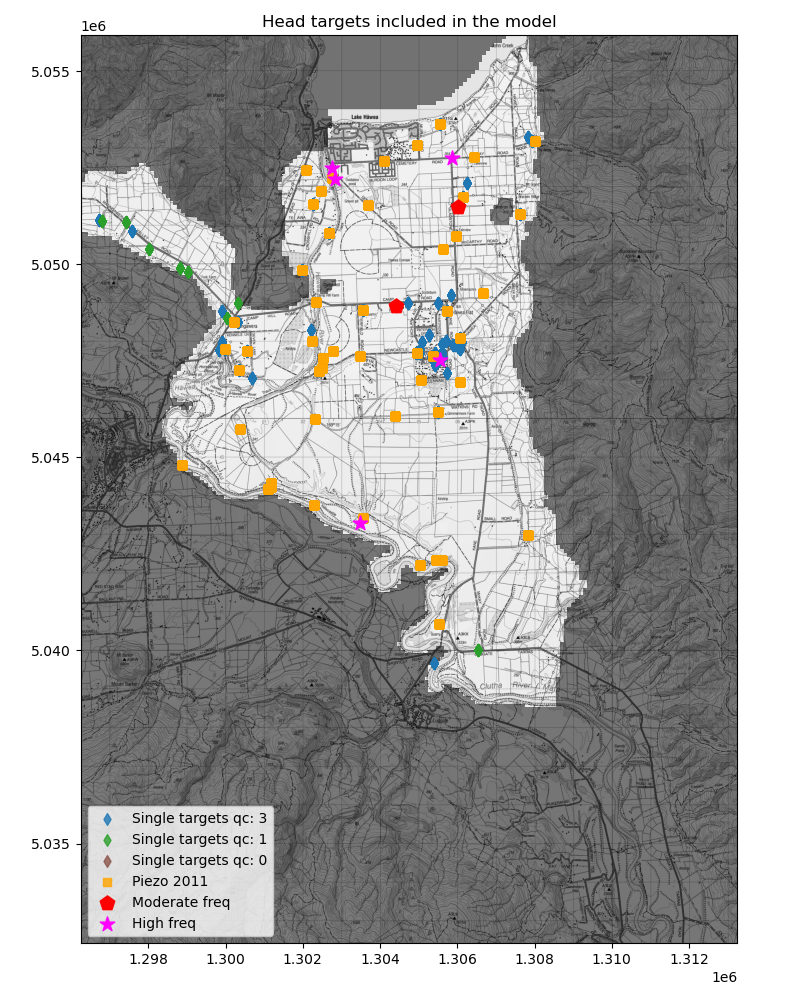
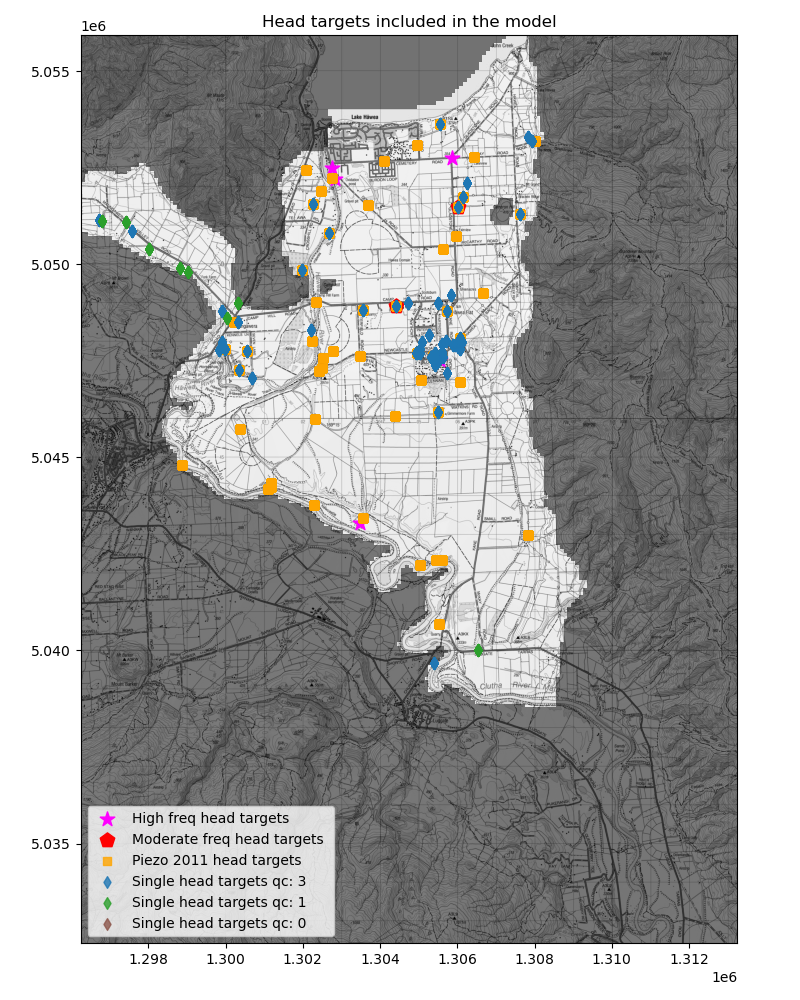
start target readme

diff --git a/writeup_support.py b/writeup_support.py
@@ -143,10 +143,9 @@ def geography():
     ax.legend(handles, labels, loc='lower left')
     # todo clutha/hawea river
 
-
     labels = [
-       "Camp Hill",
-       "Cameron Hill",
+        "Camp Hill",
+        "Cameron Hill",
         "Grandview Ridge",
         "John Stream",
         "Grandview Creek",
@@ -162,19 +161,20 @@ def geography():
         (1308166.6, 5046628.5),
     ]
     for label, (x, y) in zip(labels, xsys):
-        ax.annotate(label, xy=(x, y), xytext=(x, y-1500), fontsize=10, color='k', ha='center', va='center',
+        ax.annotate(label, xy=(x, y), xytext=(x, y - 1500), fontsize=10, color='k', ha='center', va='center',
                     bbox=dict(boxstyle='round', fc='w', ec='k', alpha=0.5),
                     arrowprops=dict(facecolor='white', shrink=0.05, width=2, headwidth=10, headlength=10))
     fig.tight_layout()
     fig.savefig(proj_root.joinpath('support_figures', 'model_2d_geography.png'))
     plt.show()
 
+
 def well_locations():
     from model_build.supporting_data_analysis import get_pumping_locs
     locs = get_pumping_locs()
     locs = smt.io.add_mxmy_to_df(locs)
-    fig,ax =smt.plot.plt_basemap(no_flow_layer=0)
-    for l,c in zip(range(3), ['r', 'b', 'm']):
+    fig, ax = smt.plot.plt_basemap(no_flow_layer=0)
+    for l, c in zip(range(3), ['r', 'b', 'm']):
         temp = locs[locs.k == l]
         ax.scatter(temp.mx, temp.my, color=c, label='Abstraction in Layer {}'.format(l))
     ax.legend(loc='lower left')
@@ -183,10 +183,11 @@ def well_locations():
     fig.savefig(proj_root.joinpath('support_figures', 'model_2d_well_locations.png'))
     plt.show()
 
+
 def large_hill_inflows():
     from model_build.supporting_data_analysis import get_river_flow_data
 
-    rflows = get_river_flow_data('2015-01-01', None,frequency='W')
+    rflows = get_river_flow_data('2015-01-01', None, frequency='W')
 
     fig, ax = plt.subplots(figsize=(8, 4))
     for nm, pn, c in zip(['gview', 'john'], ['Grandview Creek', 'John Creek'], ['r', 'b']):
@@ -199,6 +200,7 @@ def large_hill_inflows():
     fig.savefig(proj_root.joinpath('support_figures', 'model_2d_large_hill_inflows.png'))
     plt.show()
 
+
 def near_river():
     from model_build.supporting_data_analysis.get_pumping_data import get_pumping_locs
     all_locs = get_pumping_locs(force_near_river=True)
@@ -206,7 +208,7 @@ def near_river():
     fig, ax = smt.plot.plt_basemap(no_flow_layer=0)
     for t in [True, False]:
         ax.scatter(all_locs[all_locs.near_river == t].mx, all_locs[all_locs.near_river == t].my,
-                     color='r' if t else 'b', label='Near River' if t else 'Not Near River')
+                   color='r' if t else 'b', label='Near River' if t else 'Not Near River')
     ax.legend(loc='lower left')
     ax.set_title('Groundwater Abstraction Well Locations')
     fig.tight_layout()
@@ -214,11 +216,39 @@ def near_river():
     plt.show()
 
 
+def plot_all_targets():
+    from optimisation.pre_optimisation_overview import plot_head_targets, get_riv_target_locs, get_hawea_gain_loss_targets
+    rt = get_hawea_gain_loss_targets()
+    # river targets
+    riv_loc = get_riv_target_locs()
+    use_riv_targets = smt.get_model_zeros() * np.nan
+    base_names = {e: f'Hawea River Target: {int(e)}' for e in riv_loc.keys()}
+    for k, v in riv_loc.items():
+        use_riv_targets[v] = k
+
+    zone_colors = {k: c for c, k in zip(smt.plot.get_colors(riv_loc.keys()), riv_loc.keys())}
+
+    fig, ax = plot_head_targets(how='incl')
+    handles, labels = ax.get_legend_handles_labels()
+
+    fig, ax, handles1, labels1 = smt.plot.plt_discrete_matrix(use_riv_targets, ax=ax, colors=zone_colors,
+                                                            names=base_names,
+                                                            return_handles_labels=True)
+    handles.extend(handles1)
+    labels.extend(labels1)
+    ax.set_title('All model targets')
+    ax.legend(labels=labels, handles=handles, loc='lower left')
+    fig.tight_layout()
+    fig.savefig(proj_root.joinpath('support_figures', 'model_targets.png'))
+    plt.show()
+
+
 if __name__ == '__main__':
     # model_2d_structure_plots()
     # boundary_condition_figure()
-    #geography()
+    # geography()
     # well_locations()
-    #large_hill_inflows()
-    near_river()
+    # large_hill_inflows()
+    # near_river()
+    plot_all_targets()
     pass

diff --git a/targets_and_sensitive_sites/head_targets.py b/targets_and_sensitive_sites/head_targets.py
@@ -158,36 +158,38 @@ def plot_head_targets(how='all'):
 
 
     elif how == 'incl':
+        print('plotting head targets included in the model')
         fig, ax = smt.plot.plt_matrix(smt.get_model_zeros() * np.nan, color_bar=False,
                                       base_map=True, no_flow_layer=0)
 
         all_wells = get_all_wells()
         single_targets = get_single_head_targets()
         all_wells = all_wells.loc[all_wells.ibound > 0]
-        qcs = all_wells.loc[:, 'quality_code'].unique()
-        colors = get_colors(qcs)
-        for qc, c in zip(qcs, colors):
-            temp = single_targets.loc[single_targets.quality_code == qc]
-            ax.scatter(temp.nztmx, temp.nztmy, color=c, label=f'Single targets qc: {qc}', marker='d', alpha=alpha)
-
-        # add scott piezo locs
-        piezo = get_2011_piezo_survey(recalc=True)
-        ax.scatter(piezo.nztmx, piezo.nztmy, color='orange', marker='s', alpha=alpha, label='Piezo 2011')
+        qcs = list(reversed(sorted(all_wells.loc[:, 'quality_code'].unique())))
 
         marker_size = 120
-        # add ngmp wells
-        t = get_low_freq_head_targets(None, None)
-        wells = all_wells.loc[t.keys()]
-        ax.scatter(wells.nztmx, wells.nztmy, color='r', marker='p', label='Moderate freq', s=marker_size)
-
         # add high frequency
         t = get_high_freq_head_targets(None, None)
         wells = all_wells.loc[t.keys()]
-        ax.scatter(wells.nztmx, wells.nztmy, color='magenta', marker='*', label='High freq', s=marker_size)
+        ax.scatter(wells.nztmx, wells.nztmy, color='magenta', marker='*', label='High freq head targets', s=marker_size)
 
-        print('plotting head targets included in the model')
-        ax.legend(loc='lower left')
+        # add ngmp wells
+        t = get_low_freq_head_targets(None, None)
+        wells = all_wells.loc[t.keys()]
+        ax.scatter(wells.nztmx, wells.nztmy, color='r', marker='p', label='Moderate freq head targets ', s=marker_size)
+
+        # add scott piezo locs
+        piezo = get_2011_piezo_survey(recalc=True)
+        ax.scatter(piezo.nztmx, piezo.nztmy, color='orange', marker='s', alpha=alpha, label='Piezo 2011 head targets')
+
+
+        colors = get_colors(qcs)
+        for qc, c in zip(qcs, colors):
+            temp = single_targets.loc[single_targets.quality_code == qc]
+            ax.scatter(temp.nztmx, temp.nztmy, color=c, label=f'Single head targets qc: {qc}', marker='d', alpha=alpha)
+
         ax.set_title('Head targets included in the model')
+        ax.legend(loc='lower left')
 
     else:
         raise NotImplementedError

diff --git a/optimisation/pre_optimisation_overview.py b/optimisation/pre_optimisation_overview.py
@@ -748,6 +748,11 @@ def make_all_preopt(save):
 
 
 if __name__ == '__main__':
+    # one revision
+    fig, ax = plot_head_targets('incl')
+    fig.tight_layout()
+    fig.savefig(proj_root.joinpath('optimisation/pre_optimisation_plots_png/targets/spatial_head_targets.png'))
+
     base = proj_root.joinpath('optimisation')
     save = True
     for extension in ['.png']:

diff --git a/targets_and_sensitive_sites/README.rst b/targets_and_sensitive_sites/README.rst
@@ -1,6 +1,105 @@
+Hawea Transient groundwater model (Hawea Model) Targets and Sensitive sites
+################################################
+
+.. figure:: ../support_figures/model_targets.png
+   :height: 650 px
+   :align: center
+
+.. class:: centered
+
+   Figure: All Hawea Model targets
+
+:Author:  Matt Dumont
+:Date:  2021-11-02
+:Version:  1.0.0
+:Status:  Draft
+:KSL project: Z22031HAW_hawea-model
+:Purpose: This document describes the development of model targets and the identification of sensitive sites
+
+Index
+=====
+.. contents:: Table of Contents
+
+Managing targets outside of the optimisation period
+====================================================
+# todo
+
+Groundwater head targets
+========================
+.. figure:: ../optimisation/pre_optimisation_plots_png/targets/spatial_head_targets.png
+   :height: 650 px
+   :align: center
+
+.. class:: centered
+
+   Figure: Spatial distribution of groundwater head targets
+
+# todo
+High and moderate frequency targets
+----------------------
+# todo
+
+Targets from the 2011 Piezometric Survey
+------------------------------------------
+# todo
+Single targets
+-----------------
+# todo
 
 
+River gain and loss targets
+===========================
 
+.. figure:: ../optimisation/pre_optimisation_plots_png/targets/river_conductance.png
+   :height: 650 px
+   :align: center
+
+.. class:: centered
+
+   Figure: Spatial distribution of river gain/loss targets
+
+Measured data
+-------------
+Two sets of 4 concurrent river gaugings on the Hawea River were used to develop the river gain/loss targets. The first
+set of gaugings were taken on 2017-09-29 and the second set were taken in on 2018-02-07. These targets are inherently
+uncertain as the gauging error is typically >=10% of the river discharge and in braided river systems such as the Hawea
+River, the river discharge can vary significantly over short distances as water travels in and out of the
+river proximal and riverbed gravels. Nevertheless, the river gain/loss targets are the only measured constraint on the
+model and are therefore used in the optimisation.
+
+Expert Judgment
+---------------
+# todo
+
+Temporal distribution of targets
+================================
+The final temporal distribution of targets in the model is shown in the following figures. Recall that the targets
+which were measured outside of the optimisation period were assigned an indicative time during the optimisation
+period.
+
+.. figure:: ../optimisation/pre_optimisation_plots_png/targets/low_freq_temporal_targets.png
+   :height: 650 px
+   :align: center
+
+.. class:: centered
+
+   Figure: Temporal distribution of low frequency groundwater head and river gain/loss targets
+
+.. figure:: ../optimisation/pre_optimisation_plots_png/targets/high_freq_temporal_targets.png
+    :height: 650 px
+    :align: center
+
+.. class:: centered
+
+        Figure: Temporal distribution of high frequency groundwater head targets
+
+Model Objective Function and target weighting
+=============================================
+#todo
+
+Other sensitive sites
+======================
+# todo
 
 References
 ===========
